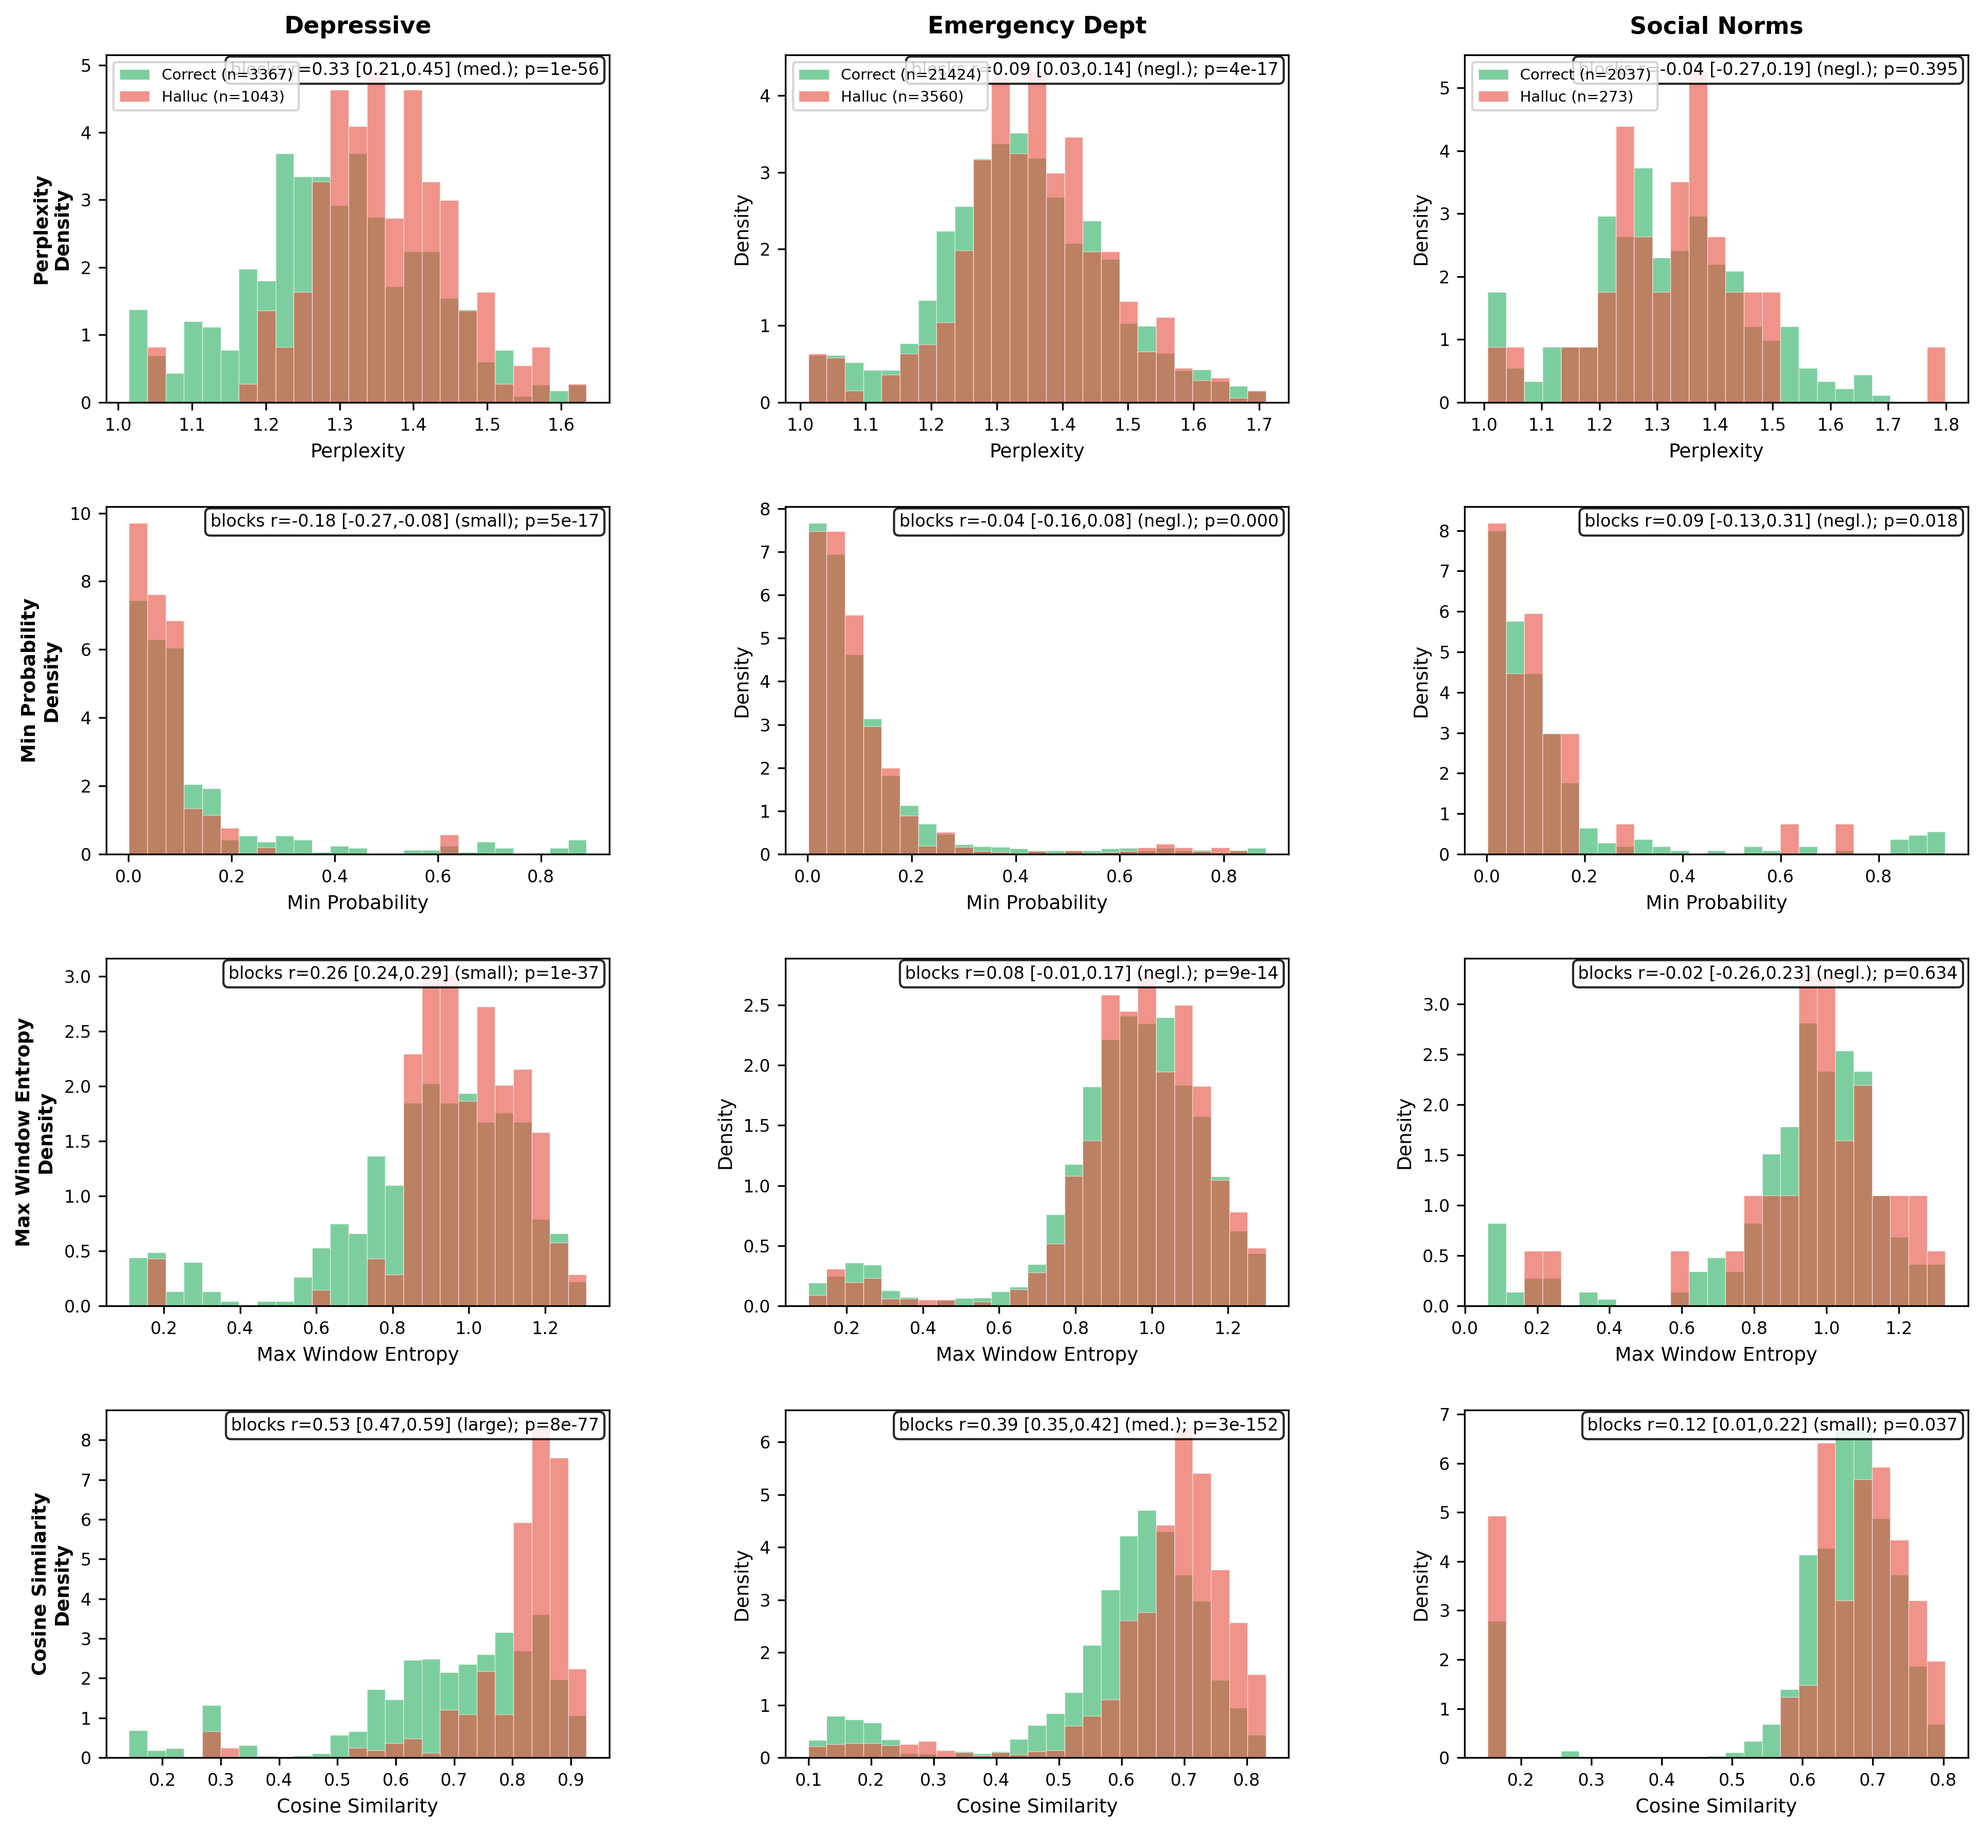
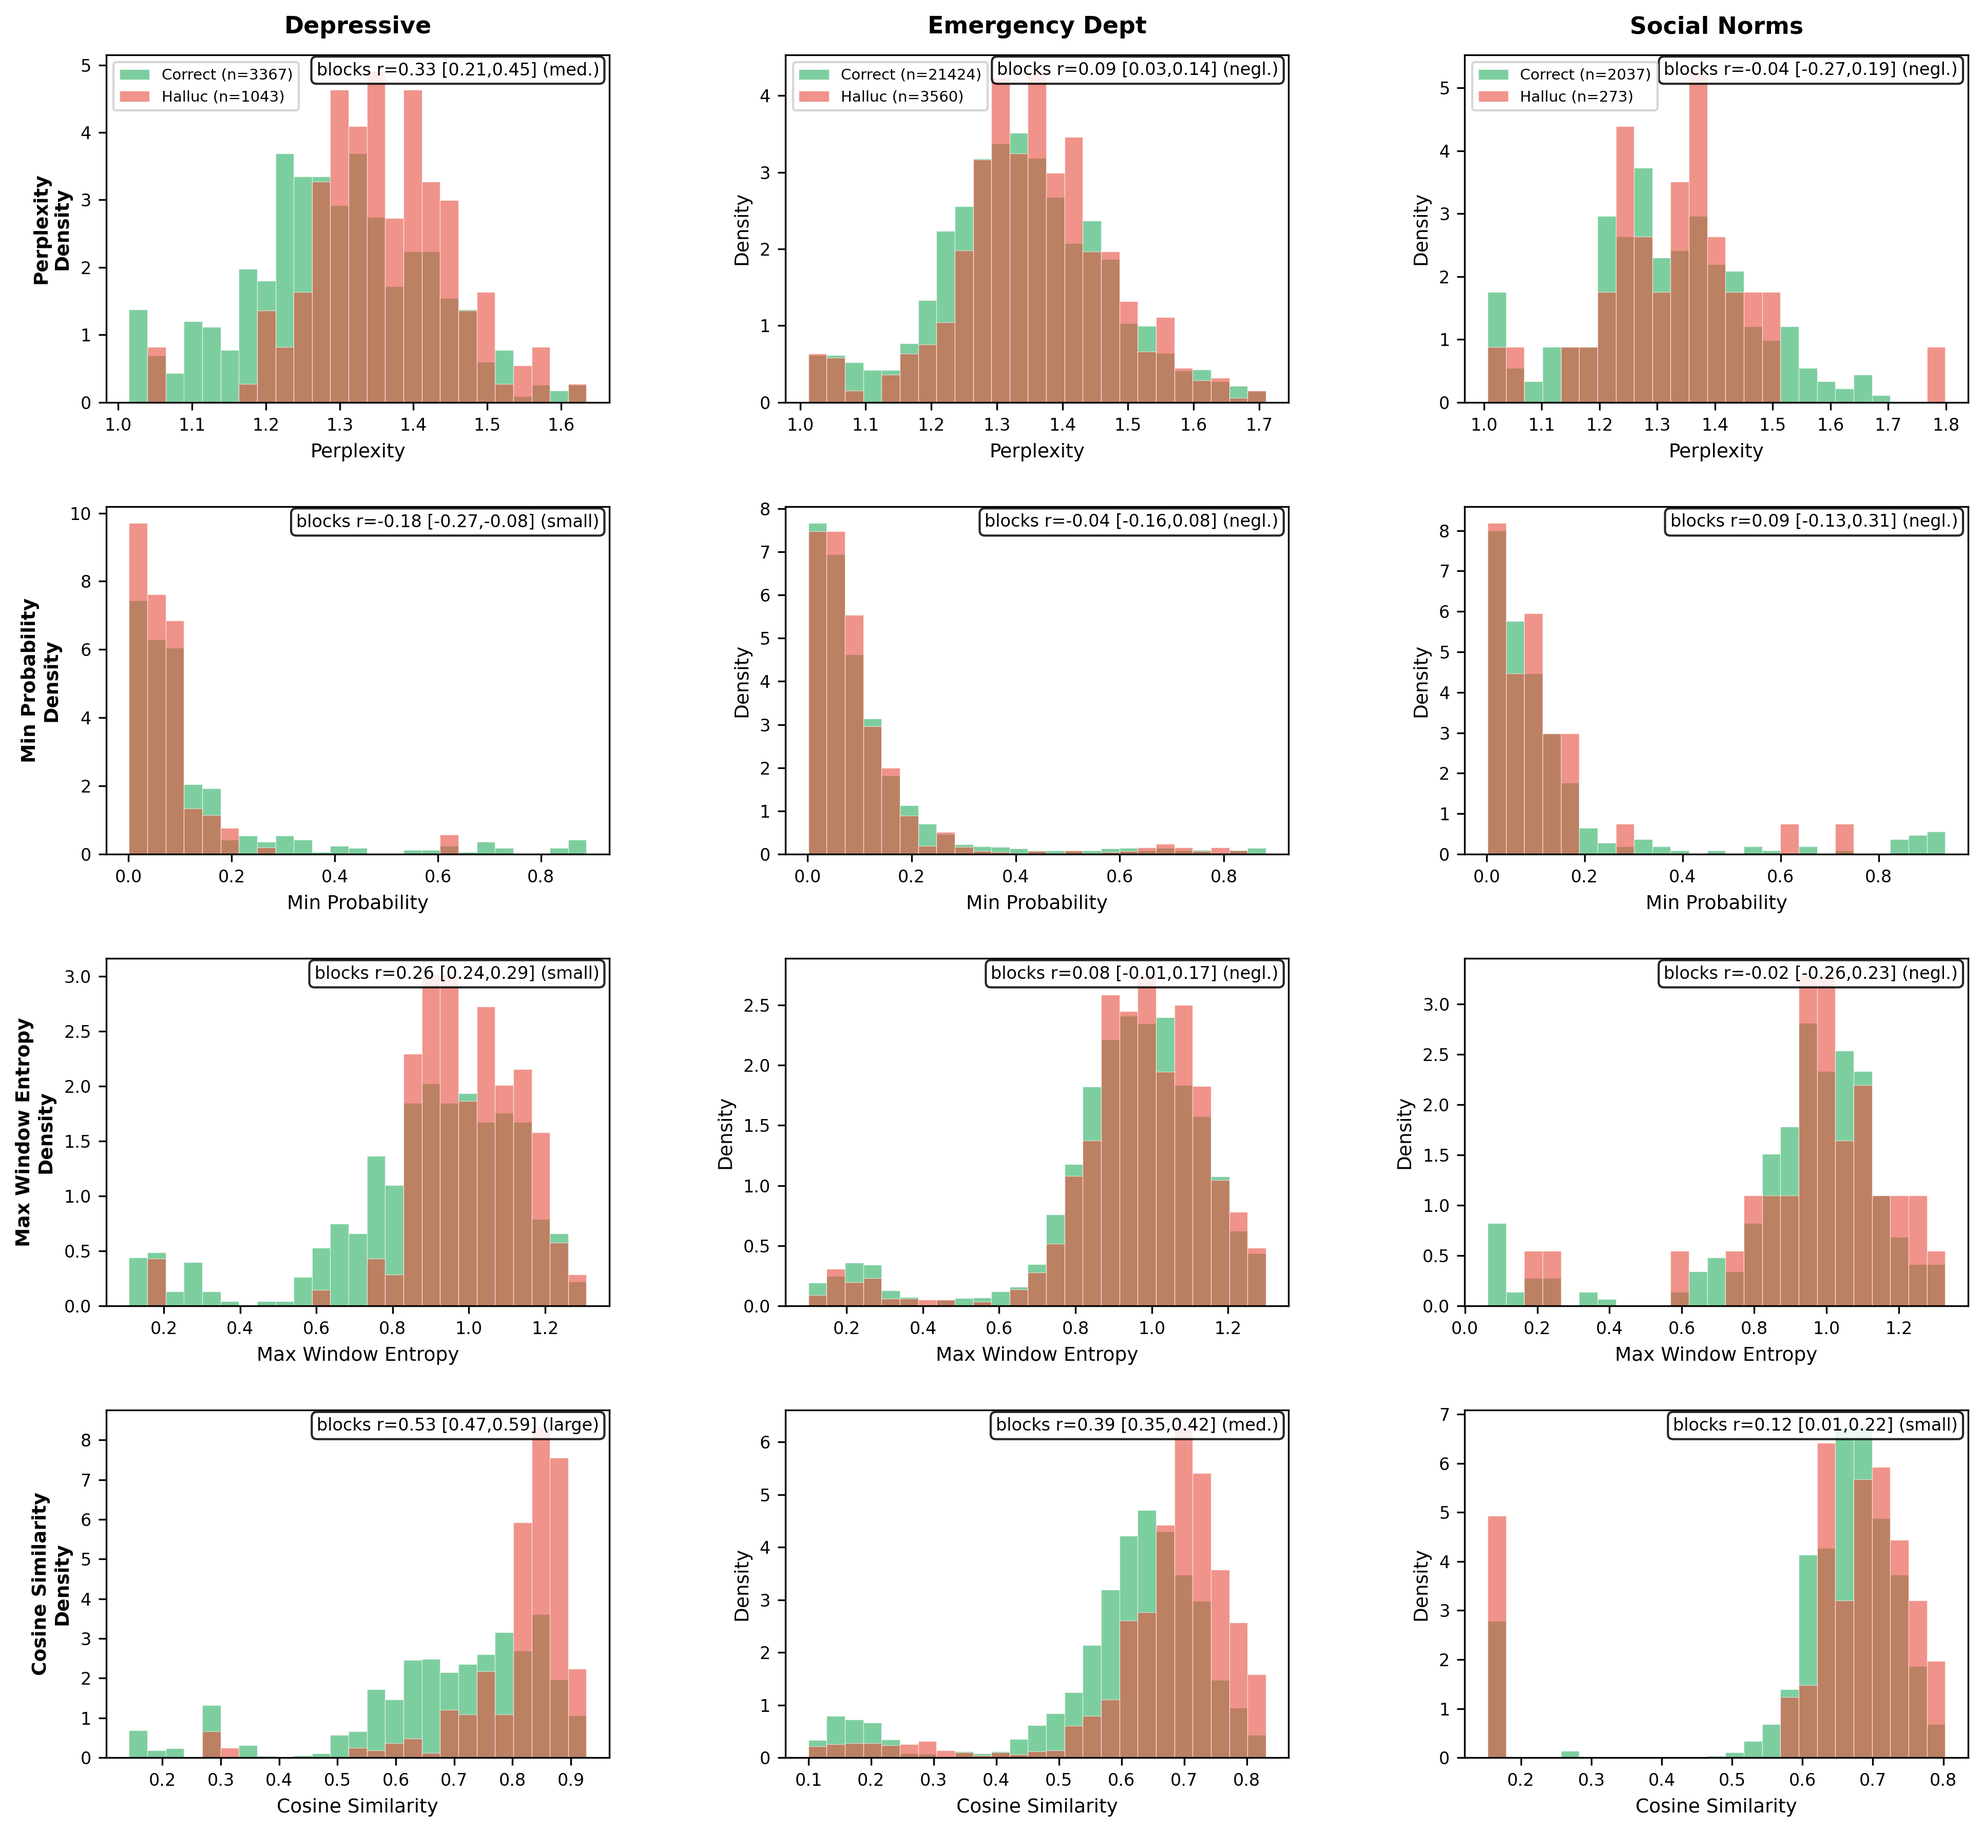
RQ2: show 95% CI (not min-max) on distribution figure

diff --git a/final_runs/RQ2_uq_hallucination_detection/analysis_scripts/rq2_distribution_figure.py b/final_runs/RQ2_uq_hallucination_detection/analysis_scripts/rq2_distribution_figure.py
@@ -20,7 +20,6 @@ from scipy import stats
 sys.path.insert(0, str(Path(__file__).parent))
 
 from rq2_data_preparation import load_rq2_combined_data
-from rq2_paths import repo_root
 
 # Define metrics
 CI_METRICS = [
@@ -118,7 +117,7 @@ def generate_distribution_figure(df, output_path):
                 ax.hist(halluc_clipped, bins=bins, alpha=0.6, label=f'Halluc (n={len(halluc_data)})',
                        color=halluc_color, density=True, edgecolor='white', linewidth=0.3)
                 
-                # Block-level effect summary (unit = CLD×run blocks, n≈3 runs per CLD)
+                # Block-level effect summary (unit = CLD×run blocks, n=3 runs per CLD)
                 block_rs = []
                 for run in sorted(cld_df['run'].dropna().unique()):
                     run_df = cld_df[cld_df['run'] == run]
@@ -138,13 +137,11 @@ def generate_distribution_figure(df, output_path):
                     if n_blocks > 1:
                         r_std = float(np.std(block_rs, ddof=1))
                         sem = r_std / np.sqrt(n_blocks)
-                        t_crit = stats.t.ppf(0.975, n_blocks - 1)
-                        r_ci_hw = sem * t_crit
-                        r_ci_lo = r_mean - r_ci_hw
-                        r_ci_hi = r_mean + r_ci_hw
+                        r_ci_hw = sem * stats.t.ppf(0.975, n_blocks - 1)
                     else:
-                        r_ci_lo = r_mean
-                        r_ci_hi = r_mean
+                        r_ci_hw = 0.0
+                    r_ci_low = float(max(-1.0, r_mean - r_ci_hw))
+                    r_ci_high = float(min(1.0, r_mean + r_ci_hw))
                     abs_r = abs(r_mean)
                     if abs_r < 0.10:
                         effect_label = 'negl.'
@@ -154,26 +151,9 @@ def generate_distribution_figure(df, output_path):
                         effect_label = 'med.'
                     else:
                         effect_label = 'large'
-
-                    # Edge-level Mann–Whitney U p-value (descriptive; very large N makes p small)
-                    try:
-                        _, p_mwu = stats.mannwhitneyu(correct_data.values, halluc_data.values, alternative='two-sided')
-                    except Exception:
-                        p_mwu = None
-
-                    def fmt_p(p):
-                        if p is None or (isinstance(p, float) and np.isnan(p)):
-                            return "n/a"
-                        p = float(p)
-                        if p == 0.0:
-                            return "<1e-300"
-                        if p < 1e-4:
-                            return f"{p:.0e}"
-                        return f"{p:.3f}"
-
                     ax.text(
                         0.98, 0.98,
-                        f"blocks r={r_mean:.2f} [{r_ci_lo:.2f},{r_ci_hi:.2f}] ({effect_label}); p={fmt_p(p_mwu)}",
+                        f"blocks r={r_mean:.2f} [{r_ci_low:.2f},{r_ci_high:.2f}] ({effect_label})",
                         transform=ax.transAxes, fontsize=8, ha='right', va='top',
                         bbox=dict(boxstyle='round,pad=0.3', facecolor='white', alpha=0.85)
                     )
@@ -218,7 +198,7 @@ def generate_distribution_figure(df, output_path):
 
 def generate_caption_tex(output_path):
     """Generate LaTeX caption file for the distribution figure."""
-    caption_text = r"""\caption[UQ metric distributions by CLD]{Generator UQ metric distributions comparing correct edges (green) vs.\ hallucinations (red) for each CLD (99th percentile). Rows show generator metrics; columns show CLDs. Subplot annotations report block-level rank-biserial effect sizes $r$ aggregated across runs within each CLD (mean [95\% CI] over the 3 CLD$\times$run blocks) and the corresponding Mann--Whitney U $p$-value (edge-level; descriptive).}
+    caption_text = r"""\caption[UQ metric distributions by CLD]{Generator UQ metric distributions comparing correct edges (green) vs.\ hallucinations (red) for each CLD (99th percentile). Rows show generator metrics; columns show CLDs. Subplot annotations report block-level rank-biserial effect sizes $r$ aggregated across runs within each CLD (mean $\pm$ 95\% CI, $t$-distribution, $df=2$), rather than edge-level $p$-values.}
 \label{fig:rq2_distributions_by_cld}"""
     
     with open(output_path, 'w') as f:
@@ -243,15 +223,16 @@ def main():
     print(f"Loaded {len(df)} edges from {df['cld'].nunique()} CLDs")
     print(f"Hallucinations: {df['is_hallucination'].sum()} ({df['is_hallucination'].mean():.1%})")
     
-    # Output paths
-    # - analysis: repo_root/final_runs/RQ2_uq_hallucination_detection/
-    # - thesis:   thesis/final_thesis/def_submission_template/{figures,Figures}/
-    analysis_output_dir = Path(__file__).resolve().parents[1]
-    repo = repo_root()
-    thesis_lower = repo / 'thesis' / 'final_thesis' / 'def_submission_template' / 'figures'
-    thesis_upper = repo / 'thesis' / 'final_thesis' / 'def_submission_template' / 'Figures'
-    thesis_lower.mkdir(parents=True, exist_ok=True)
-    thesis_upper.mkdir(parents=True, exist_ok=True)
+    # Output paths - save to both analysis output and thesis figure folder
+    analysis_output_dir = Path(__file__).parent.parent
+    analysis_output_dir.mkdir(parents=True, exist_ok=True)
+    
+    thesis_template_dir = Path(__file__).parent.parent.parent.parent / 'thesis' / 'final_thesis' / 'def_submission_template'
+    thesis_figures_dir = thesis_template_dir / 'Figures'
+    thesis_figures_dir.mkdir(parents=True, exist_ok=True)
+
+    thesis_figure_dir = thesis_figures_dir / 'final_runs' / 'RQ2_uq_hallucination_detection'
+    thesis_figure_dir.mkdir(parents=True, exist_ok=True)
     
     # Generate figure
     print(f"\nGenerating distribution figure...")
@@ -260,14 +241,16 @@ def main():
     output_path_analysis = analysis_output_dir / 'phase6_distributions_with_effect_sizes.png'
     generate_distribution_figure(df, output_path_analysis)
     
-    # Save to thesis figure folders with the filename used in Results.tex
-    output_path_thesis_lower = thesis_lower / 'phase6_distributions_with_effect_sizes.png'
-    output_path_thesis_upper = thesis_upper / 'phase6_distributions_with_effect_sizes.png'
-    generate_distribution_figure(df, output_path_thesis_lower)
-    generate_distribution_figure(df, output_path_thesis_upper)
+    # Save to thesis folder with expected name
+    output_path_thesis = thesis_figure_dir / 'feature_distributions_by_cld_4x3.png'
+    generate_distribution_figure(df, output_path_thesis)
+
+    # Also save to thesis Figures root where Results.tex includes it (via figures -> Figures symlink)
+    output_path_thesis_main = thesis_figures_dir / 'phase6_distributions_with_effect_sizes.png'
+    generate_distribution_figure(df, output_path_thesis_main)
     
     # Generate caption tex file
-    caption_path = analysis_output_dir / 'phase6_distributions_with_effect_sizes_caption.tex'
+    caption_path = thesis_figure_dir / 'feature_distributions_caption.tex'
     generate_caption_tex(caption_path)
     
     print("\n" + "="*80)
@@ -275,8 +258,8 @@ def main():
     print("="*80)
     print(f"\nOutputs:")
     print(f"  - {output_path_analysis}")
-    print(f"  - {output_path_thesis_lower}")
-    print(f"  - {output_path_thesis_upper}")
+    print(f"  - {output_path_thesis}")
+    print(f"  - {output_path_thesis_main}")
     print(f"  - {caption_path}")
     
     return 0

diff --git a/thesis/final_thesis/def_submission_template/Chapters/Results.tex b/thesis/final_thesis/def_submission_template/Chapters/Results.tex
@@ -564,7 +564,7 @@ Gen Cosine Similarity achieves the highest AUC (0.671), followed by Gen Perplexi
 \begin{figure}[H]
 \centering
 \includegraphics[width=1.0\textwidth]{figures/phase6_distributions_with_effect_sizes.png}
-\caption[UQ metric distributions by CLD]{Generator UQ metric distributions comparing correct edges (green) vs.\ hallucinations (red) for each CLD (99th percentile). Rows show generator metrics; columns show CLDs. Subplot annotations report block-level rank-biserial effect sizes $r$ aggregated across runs within each CLD (mean [95\% CI] over the 3 CLD$\times$run blocks) and the corresponding Mann--Whitney U $p$-value (edge-level; descriptive).}
+\caption[UQ metric distributions by CLD]{Generator UQ metric distributions comparing correct edges (green) vs.\ hallucinations (red) for each CLD (99th percentile). Rows show generator metrics; columns show CLDs. Subplot annotations report block-level rank-biserial effect sizes $r$ aggregated across runs within each CLD (mean [95\% CI] over the 3 (CLD$\times$run) blocks; $t$-distribution, $df=2$), rather than edge-level $p$-values.}
 \label{fig:rq2_distributions_by_cld}
 \end{figure}
 
@@ -572,9 +572,9 @@ To contextualize these distributions, we first assess whether the UQ metrics are
 
 \input{../../final_runs/RQ2_uq_hallucination_detection/normality_tests_table.tex}
 
-The normality diagnostics confirm that the generator-based UQ metrics are strongly non-Gaussian at the edge level (both overall and within hallucination/correct strata). This cautions against over-interpreting visual separation alone and motivates non-parametric, distribution-robust summaries for within-CLD diagnostics. For inferential claims about RQ2 (above-chance discrimination across independent generation scenarios), we rely on block-level aggregation (CLD$\times$run); edge-level $p$-values are treated as descriptive because edges within the same generation scenario are not independent.
+The normality diagnostics confirm that the generator-based UQ metrics are strongly non-Gaussian at the edge level (both overall and within hallucination/correct strata). This cautions against over-interpreting visual separation alone and motivates non-parametric, distribution-robust summaries for within-CLD diagnostics. For inferential claims about RQ2 (above-chance discrimination across independent generation scenarios), we rely on block-level aggregation (CLD$\times$run) rather than edge-level p-values to avoid pseudo-replication.
 
-Figure~\ref{fig:rq2_distributions_by_cld} compares LLM generator uncertainty metric distributions for correct edges (green) versus hallucinations (red) across the three CLDs (99th percentile clipped). Each subplot reports a block-level Mann--Whitney effect size ($r$, mean [95\% CI] over the 3 CLD$\times$run blocks) and the corresponding edge-level Mann--Whitney U $p$-value (descriptive; see Appendix~\ref{app:statistical_procedures_reference}). Columns show different CLDs; rows show different metrics. Overall, the figures show unclear separation between hallucinated and non-hallucinated edges visually, though statistical tests show differences.
+Figure~\ref{fig:rq2_distributions_by_cld} compares LLM generator uncertainty metric distributions for correct edges (green) versus hallucinations (red) across the three CLDs (99th percentile clipped; Mann--Whitney U effect sizes $r$ shown per subplot; see Appendix~\ref{app:statistical_procedures_reference}). Columns show different CLDs; rows show different metrics. Overall, the figures show unclear separation between hallucinated and non-hallucinated edges visually, though statistical tests show differences.
 
 Perplexity distributions shift slightly left for correct edges in Depressive Symptoms and show less positive kurtosis than hallucinations in Emergency Department and Social Norms, although p-values show significance in Depressive Symptoms and Emergency Department but not in Social Norms.
 

diff --git a/final_runs/RQ2_uq_hallucination_detection/analysis_scripts/rq2_data_preparation.py b/final_runs/RQ2_uq_hallucination_detection/analysis_scripts/rq2_data_preparation.py
@@ -115,9 +115,8 @@ def load_rq2_combined_data(verbose: bool = True) -> pd.DataFrame:
     
     all_data = []
     skipped = 0
-    
     root = repo_root()
-
+    
     for file_info in valid_files:
         filepath = file_info['filepath']
         exp_type = file_info['experiment_type']
@@ -162,8 +161,7 @@ def load_rq2_combined_data(verbose: bool = True) -> pd.DataFrame:
             
         except Exception as e:
             if verbose:
-                fp_name = Path(filepath).name
-                print(f"  ⚠  Skipped {fp_name}: {e}")
+                print(f"  ⚠  Skipped {Path(filepath).name}: {e}")
             skipped += 1
             continue
     
